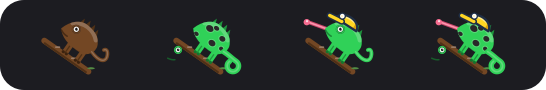
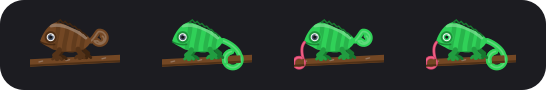
feat: the eye shows accept-dns, and the README describes the new signals
The app already tracked corpDNS for its menu row; it now reaches the icon too.

Claude-Session: https://claude.ai/code/session_012juQnYyy2p9fm31ms1fZXE

diff --git a/Sources/VPNDNSMenuBar/main.swift b/Sources/VPNDNSMenuBar/main.swift
@@ -294,6 +294,7 @@ final class App: NSObject, NSApplicationDelegate {
                 self.lastIconColor = nsColor(dotColor(mullvad: mv.state, tailscaleRunning: be == "Running"))
                 self.lastTail = be == "Running"
                 self.lastTongue = mv.state == .connected
+                self.lastDNS = self.corpDNS
                 // The chameleon colours itself by connection; only Mullvad's
                 // in-between states (connecting, blocked) borrow the dot's colour.
                 switch mv.state {
@@ -321,11 +322,13 @@ final class App: NSObject, NSApplicationDelegate {
     private var lastIconColor: NSColor = NSColor(red: 0.60, green: 0.60, blue: 0.62, alpha: 1)
     private var lastTail = false
     private var lastTongue = false
+    private var lastDNS = false
     private var lastAlert: NSColor? = nil
 
     private func applyIcon() {
         switch IconStyle.current {
-        case .chameleon: controller.setIcon(CharacterIcon.chameleon(tailscale: lastTail, mullvad: lastTongue, alert: lastAlert))
+        case .chameleon: controller.setIcon(CharacterIcon.chameleon(tailscale: lastTail, mullvad: lastTongue,
+                                                                    acceptDNS: lastDNS, alert: lastAlert))
         case .dot: controller.setIcon(MeterIcon.dot(color: lastIconColor))
         }
     }

diff --git a/README.md b/README.md
@@ -23,16 +23,16 @@ The menu bar shows **one icon**: a chameleon.
 
 ![The menu-bar icon](docs/menubar-icon.png)
 
-It hangs onto a brown stick and is brown like the stick while nothing is
-connected.
+It sits on a branch, brown like the branch while nothing is connected. Each
+connection is one thing the animal does, so the icon says all of them at once:
 
-- **Tailscale running:** it turns green with dark spots (Tailscale's own icon
-  is dots) and its tail curls into a loop. Otherwise the tail is a long, open
-  curl.
-- **Mullvad connected:** it turns green, puts on a yellow hard hat with a headlamp, and its tongue flicks out.
-- **Both:** green with spots, hard hat on, tongue out, tail looped.
-- Mullvad's in-between states still show as the dot's colours: orange while
-  connecting or disconnecting, red when blocked.
+- **Tailscale running:** the tail comes down off its back and wraps around the
+  branch. Otherwise it stays rolled up behind it.
+- **Mullvad connected:** the tongue shoots out and wraps the branch ahead of it.
+- **accept-dns (MagicDNS) on:** its eye turns green.
+- **Either VPN up:** the body turns green; Mullvad's in-between states still
+  borrow the dot's colours — orange while connecting or disconnecting, red when
+  blocked.
 
 Prefer the original dot? **menu ▸ Icon ▸ Dot**.
 
